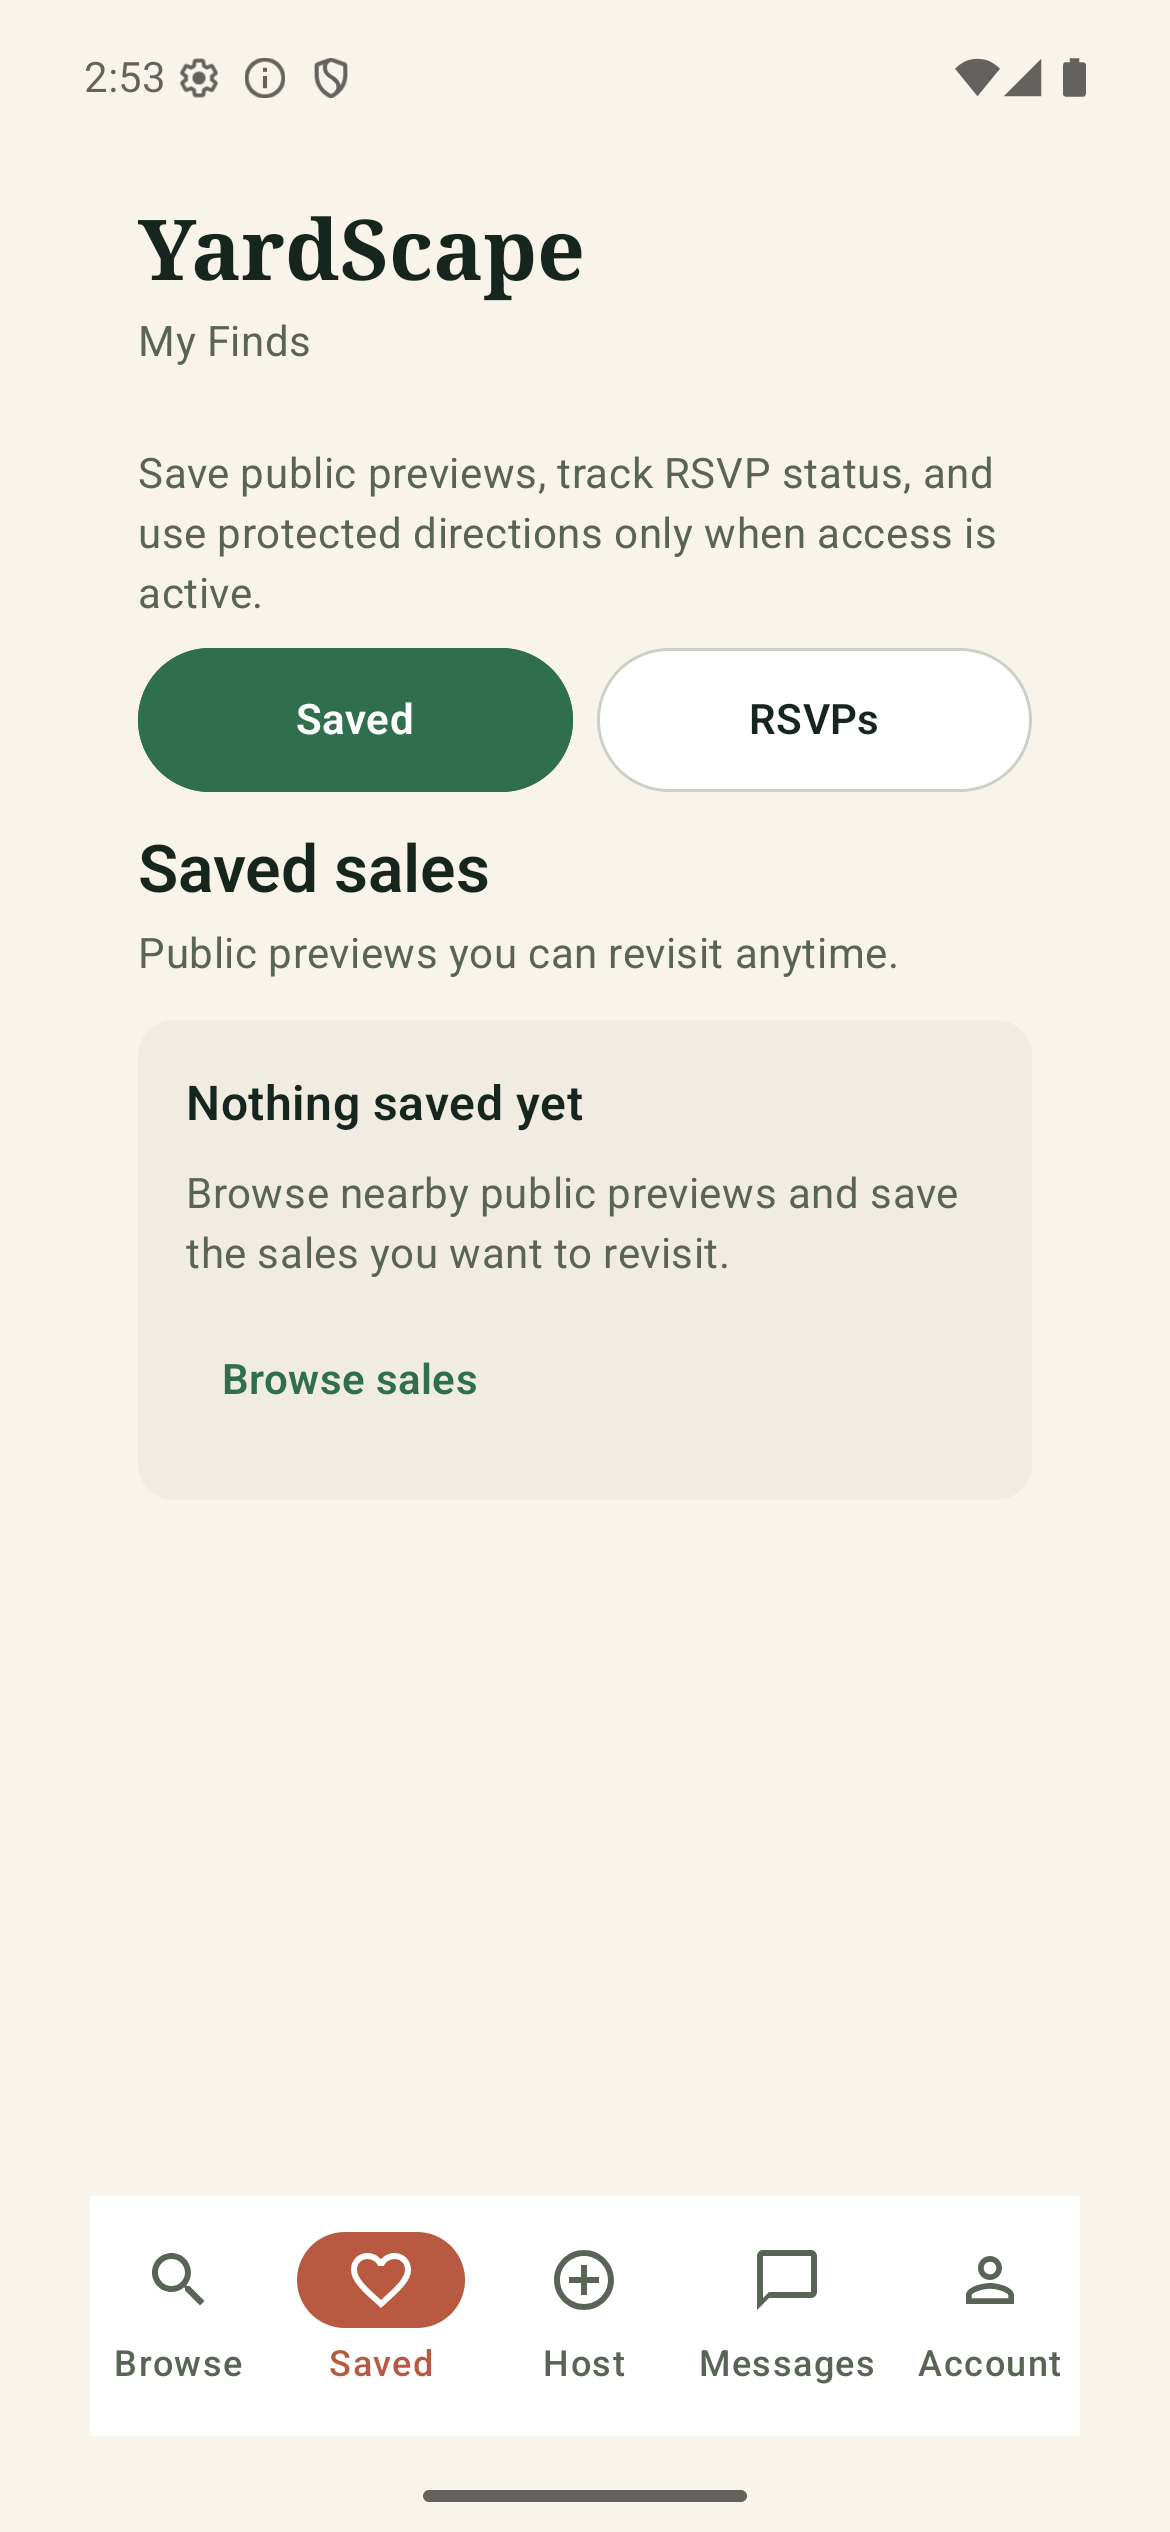
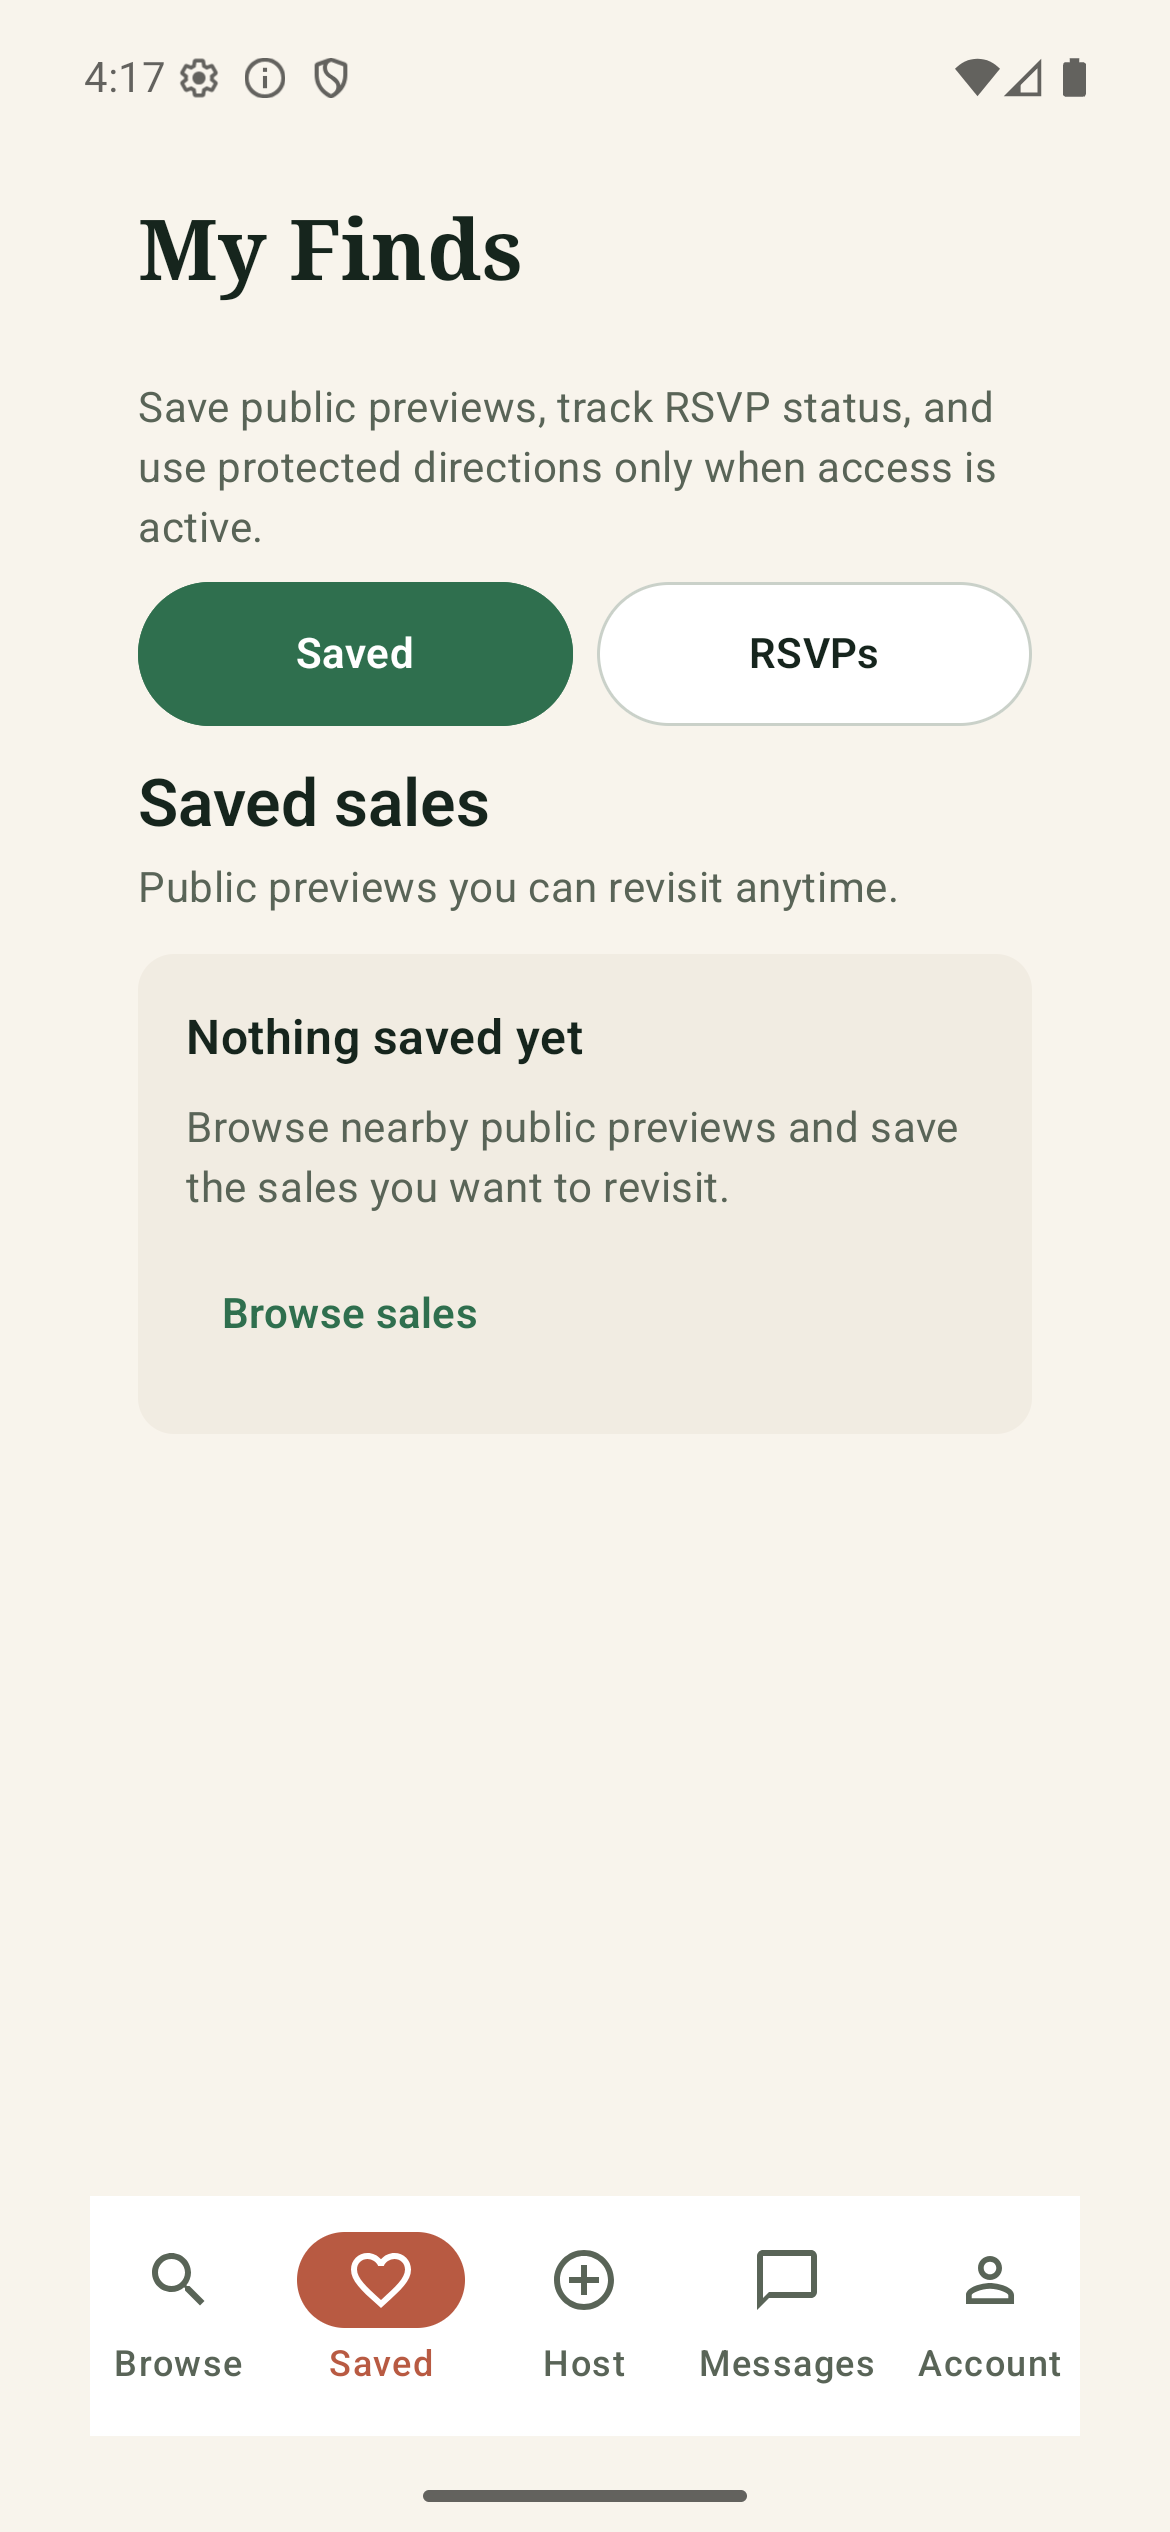
Refine non-Browse editorial titles

diff --git a/app/shared/src/commonMain/kotlin/com/naslabs/yardscape/ui/MarketplaceEditorialComponents.kt b/app/shared/src/commonMain/kotlin/com/naslabs/yardscape/ui/MarketplaceEditorialComponents.kt
@@ -22,7 +22,6 @@ import androidx.compose.ui.semantics.semantics
 import androidx.compose.ui.text.font.FontWeight
 import androidx.compose.ui.text.style.TextOverflow
 import androidx.compose.ui.unit.dp
-import com.naslabs.yardscape.YardScapeConfig
 
 @Composable
 internal fun MarketplaceEditorialHeader(
@@ -47,26 +46,14 @@ internal fun MarketplaceEditorialHeader(
             if (presentation.showsBackNavigation && onBack != null) {
                 MarketplaceEditorialBackNavigation(onBack = onBack)
             }
-            Box(modifier = Modifier.weight(1f)) {
-                androidx.compose.foundation.layout.Column(
-                    verticalArrangement = Arrangement.spacedBy(2.dp),
-                ) {
-                    Text(
-                        text = YardScapeConfig.appName,
-                        style = MaterialTheme.typography.headlineMedium,
-                        color = MaterialTheme.colorScheme.onBackground,
-                        maxLines = 1,
-                        overflow = TextOverflow.Ellipsis,
-                    )
-                    Text(
-                        text = presentation.title,
-                        style = MaterialTheme.typography.bodyMedium,
-                        color = MaterialTheme.colorScheme.onSurfaceVariant,
-                        maxLines = 1,
-                        overflow = TextOverflow.Ellipsis,
-                    )
-                }
-            }
+            Text(
+                modifier = Modifier.weight(1f),
+                text = presentation.title,
+                style = MaterialTheme.typography.headlineMedium,
+                color = MaterialTheme.colorScheme.onBackground,
+                maxLines = 1,
+                overflow = TextOverflow.Ellipsis,
+            )
         }
     }
 }

diff --git a/app/androidApp/src/androidTest/kotlin/com/naslabs/yardscape/MarketplaceResponsiveTest.kt b/app/androidApp/src/androidTest/kotlin/com/naslabs/yardscape/MarketplaceResponsiveTest.kt
@@ -154,6 +154,7 @@ class MarketplaceResponsiveTest {
         }
 
         composeRule.onNodeWithTag("editorial-header").assertIsDisplayed()
+        composeRule.onAllNodesWithText("YardScape").assertCountEquals(0)
         composeRule.onAllNodesWithText("My Finds").assertCountEquals(1)
         composeRule.onNodeWithTag("editorial-segment-saved")
             .assertIsDisplayed()

diff --git a/docs/superpowers/plans/2026-08-31-shared-visual-foundations.md b/docs/superpowers/plans/2026-08-31-shared-visual-foundations.md
@@ -1,0 +1,42 @@
+# Shared Visual Foundations Implementation Plan
+
+> **For agentic workers:** REQUIRED SUB-SKILL: Use superpowers:subagent-driven-development or superpowers:executing-plans to implement this plan task-by-task.
+
+**Goal:** Extend the approved Browse marketplace visual language into reusable shared Compose foundations and an editorial non-Browse shell.
+
+**Architecture:** Keep business state and routes unchanged. Add internal presentation policies and composables in the shared UI layer, then make the app shell consume them so later workflow tickets can adopt the same visual grammar without duplicating tokens or layout logic.
+
+**Tech Stack:** Kotlin Multiplatform, Compose Multiplatform, Material 3.
+
+**Spec:** GitHub issue #90 and the approved Browse reference at `docs/audit-assets/88-approved-browse-reference.png`.
+
+## Global Constraints
+
+- Preserve every route, repository interface, domain model, backend contract, and privacy boundary.
+- Reuse the existing six marketplace photos and navigation icons; add no dependencies or generated assets.
+- Keep Android, iOS, JS, and Wasm buildability.
+- Maintain 48 dp targets, semantic selection, keyboard navigation, and screen-reader labels.
+- Work test-first and update `docs/UI_DESIGN_SYSTEM.md`.
+
+---
+
+### Task 1: Shared editorial components and application shell
+
+**Files:**
+- Create or extend focused shared UI component and presentation-policy files under `app/shared/src/commonMain/kotlin/com/naslabs/yardscape/ui/`.
+- Modify `YardScapeAppShell.kt`, `YardScapeTheme.kt`, and only supporting shared component/icon files required by the new foundations.
+- Test presentation policies in `app/shared/src/commonTest/kotlin/com/naslabs/yardscape/ui/` and compact shell behavior in `MarketplaceResponsiveTest.kt`.
+- Update `docs/UI_DESIGN_SYSTEM.md` and root `design-qa.md`.
+
+**Interfaces:**
+- Produce internal composables for editorial headers/back navigation, event photography, section/status/privacy cards, segmented controls, state panels, and responsive content widths.
+- Produce pure compact/expanded presentation policies that later tickets can test without rendering Compose.
+- Do not expose new public, domain, repository, or API interfaces.
+
+- [ ] Write focused failing common and Android UI tests for editorial headers, responsive policy, semantic selection, compact navigation, and 48 dp targets.
+- [ ] Run the focused tests and confirm they fail because the new presentation behavior is absent.
+- [ ] Implement the minimal shared tokens, policies, components, and non-Browse editorial shell needed to pass.
+- [ ] Run shared host tests and the focused Android UI test until green.
+- [ ] Run Android assembly, JS/Wasm compatibility distribution, and iOS simulator tests.
+- [ ] Capture a representative 390x844 non-Browse screen, compare it with the approved visual language, and update `design-qa.md` with `final result: passed` only when no P0-P2 issue remains.
+- [ ] Review privacy, accessibility, and diff scope; commit with a focused message.

diff --git a/design-qa.md b/design-qa.md
@@ -42,9 +42,9 @@ final result: passed
 - Source visual truth: `docs/audit-assets/88-approved-browse-reference.png`
 - Implementation capture: `docs/audit-assets/90-android-my-finds-editorial.png`
 - Representative surface: compact **My Finds** at 390 × 844 dp, light theme; implementation pixels are 1170 × 2532 at 3× density.
-- Shared implementation: linen editorial header, serif YardScape wordmark, contextual route label, evergreen selected segment, white unselected segment, clay selected navigation accent, 48 dp interaction targets, and a 960 dp expanded reading-width cap.
+- Shared implementation: one linen editorial serif route title, evergreen selected segment, white unselected segment, clay selected navigation accent, 48 dp interaction targets, and a 960 dp expanded reading-width cap. The YardScape wordmark is intentionally limited to Browse.
 - Privacy check: this foundation handles route chrome and selection only; it receives neither event addresses nor precise coordinates. Existing public/protected location surfaces remain unchanged.
 - Accessibility check: primary navigation retains labels and selected semantics; My Finds segments now use semantic selected state with 48 dp minimum targets; nested routes have a named semantic back action.
-- Comparison result: the compact route extends the approved Browse language without copying its map-specific controls. The duplicate page title found during device QA was removed, leaving one editorial My Finds heading and a clear Saved/RSVPs hierarchy. No P0-P2 visual, privacy, or accessibility issue remains in the captured surface.
+- Comparison result: the compact route extends the approved Browse language without copying its map-specific controls. The redundant app wordmark was removed from the non-Browse shell, leaving one editorial My Finds heading and a clear Saved/RSVPs hierarchy. No P0-P2 visual, privacy, or accessibility issue remains in the refreshed capture.
 
 final result: passed

diff --git a/docs/UI_DESIGN_SYSTEM.md b/docs/UI_DESIGN_SYSTEM.md
@@ -11,7 +11,7 @@ YardScape uses one Material 3 theme from shared Compose. Android, iOS, JS, and W
 | Spacing | `YardScapeDesign.spacing` exposes 4, 8, 12, 16, 24, and 32 dp steps. Use 16 dp for normal screen/card padding, 12 dp for section gaps, and 8 dp for compact groups. |
 | Shape | Extra-small 6 dp shapes are chips; small 8 dp shapes are cards and controls; 12, 16, and 24 dp shapes are reserved for progressively larger surfaces. |
 
-Non-Browse destinations use the shared editorial shell: a linen wordmark header, contextual route label, five-destination navigation, and a 960 dp reading-width cap on expanded layouts. Nested routes receive the same header with a semantic 48 dp back action. Browse intentionally retains its map-led header and full-width discovery composition.
+Non-Browse destinations use the shared editorial shell: one linen-surface serif route title, five-destination navigation, and a 960 dp reading-width cap on expanded layouts. Nested routes receive the same title with a semantic 48 dp back action. The YardScape wordmark belongs only to Browse's map-led header and full-width discovery composition.
 
 `SunTag` and the seeded photo-preview colors are extended decorative tokens. They should not be used for body text, protected-location policy, errors, or primary actions.
 
